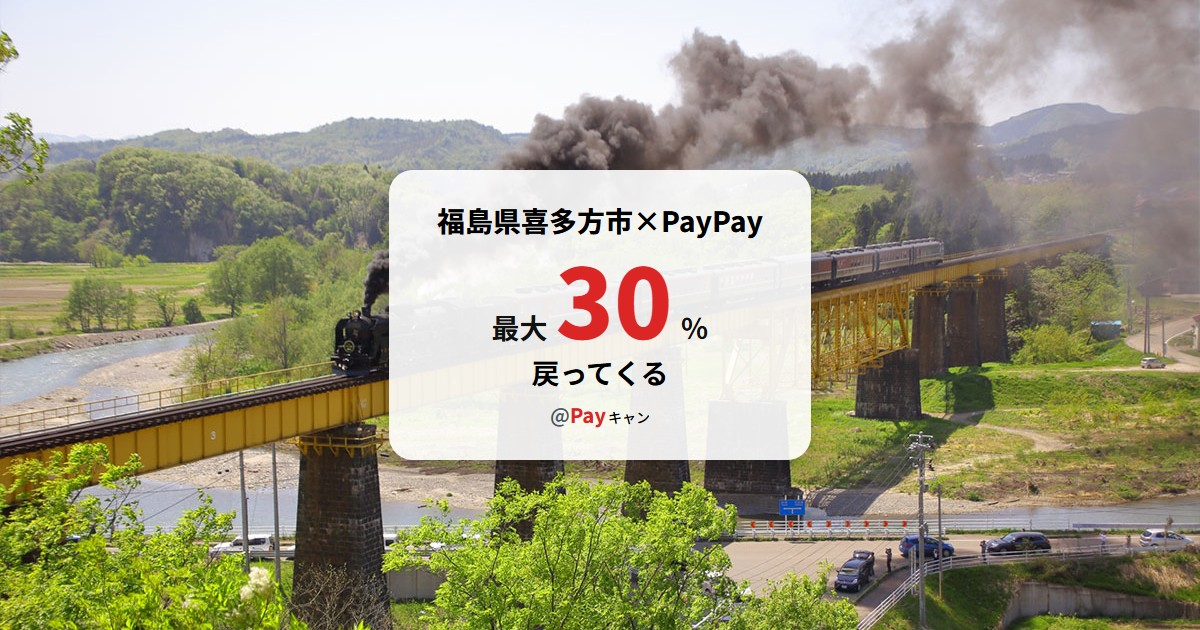
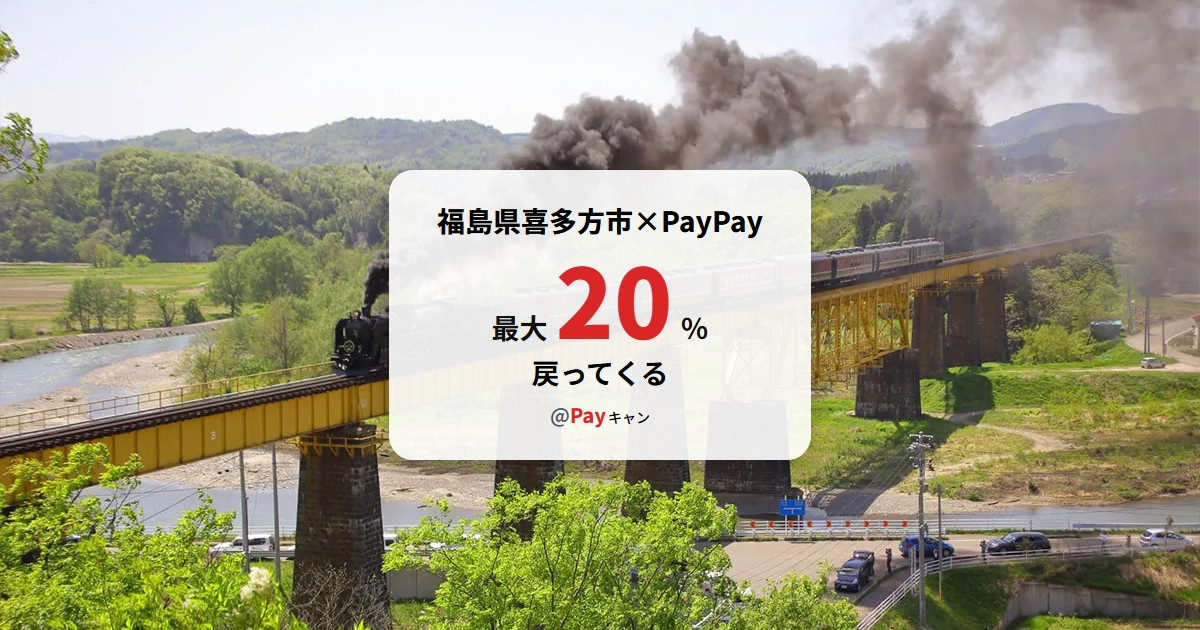
追加

Changed region(s): [[0.4625, 0.4222, 0.5242, 0.5429]]

diff --git a/src/lib/campaignMasterE.ts b/src/lib/campaignMasterE.ts
@@ -1,6 +1,7 @@
+// src/lib/campaignMasterE.ts
 import type { Campaign } from "@/types/campaign";
 
-export const campaignsA: Campaign[] = [
+export const campaignsE: Campaign[] = [
   { paytype: "paypay", prefectureSlug: "hyogo", citySlug: "kasai", prefecture: "兵庫県", city: "加西市", offer: 20, startDate: "2022-02-01", endDate: "2022-02-28", onepoint: "5000", fullpoint: "10000", campaigntitle: "第5弾 がんばれ加西！コロナに負けるな！最大20％あげちゃうキャンペーン", notice: "", datePublished: "2025-07-08", dateModified: "2025-07-08" },
   { paytype: "paypay", prefectureSlug: "hiroshima", citySlug: "sera", prefecture: "広島県", city: "世羅町", offer: 20, startDate: "2022-02-01", endDate: "2022-03-04", onepoint: "500", fullpoint: "10000", campaigntitle: "第3弾がんばろう世羅町！キャッシュレスで！最大20％戻ってくるキャンペーン！", notice: "", datePublished: "2025-07-08", dateModified: "2025-07-08" },
   { paytype: "paypay", prefectureSlug: "gunma", citySlug: "ota", prefecture: "群馬県", city: "太田市", offer: 20, startDate: "2022-02-01", endDate: "2022-02-20", onepoint: "1000", fullpoint: "4000", campaigntitle: "太田の街を元気に！使ってお得キャッシュレス還元キャンペーン", notice: "", datePublished: "2025-07-08", dateModified: "2025-07-08" },

diff --git a/src/lib/campaignMaster.ts b/src/lib/campaignMaster.ts
@@ -3,5 +3,6 @@ import { campaignsA } from "./campaignMasterA";
 import { campaignsB } from "./campaignMasterB";
 import { campaignsC } from "./campaignMasterC";
 import { campaignsD } from "./campaignMasterD";
+import { campaignsE } from "./campaignMasterE";
 
-export const campaigns = [...campaignsA, ...campaignsB, ...campaignsC, ...campaignsD];
+export const campaigns = [...campaignsA, ...campaignsB, ...campaignsC, ...campaignsD, ...campaignsE];
